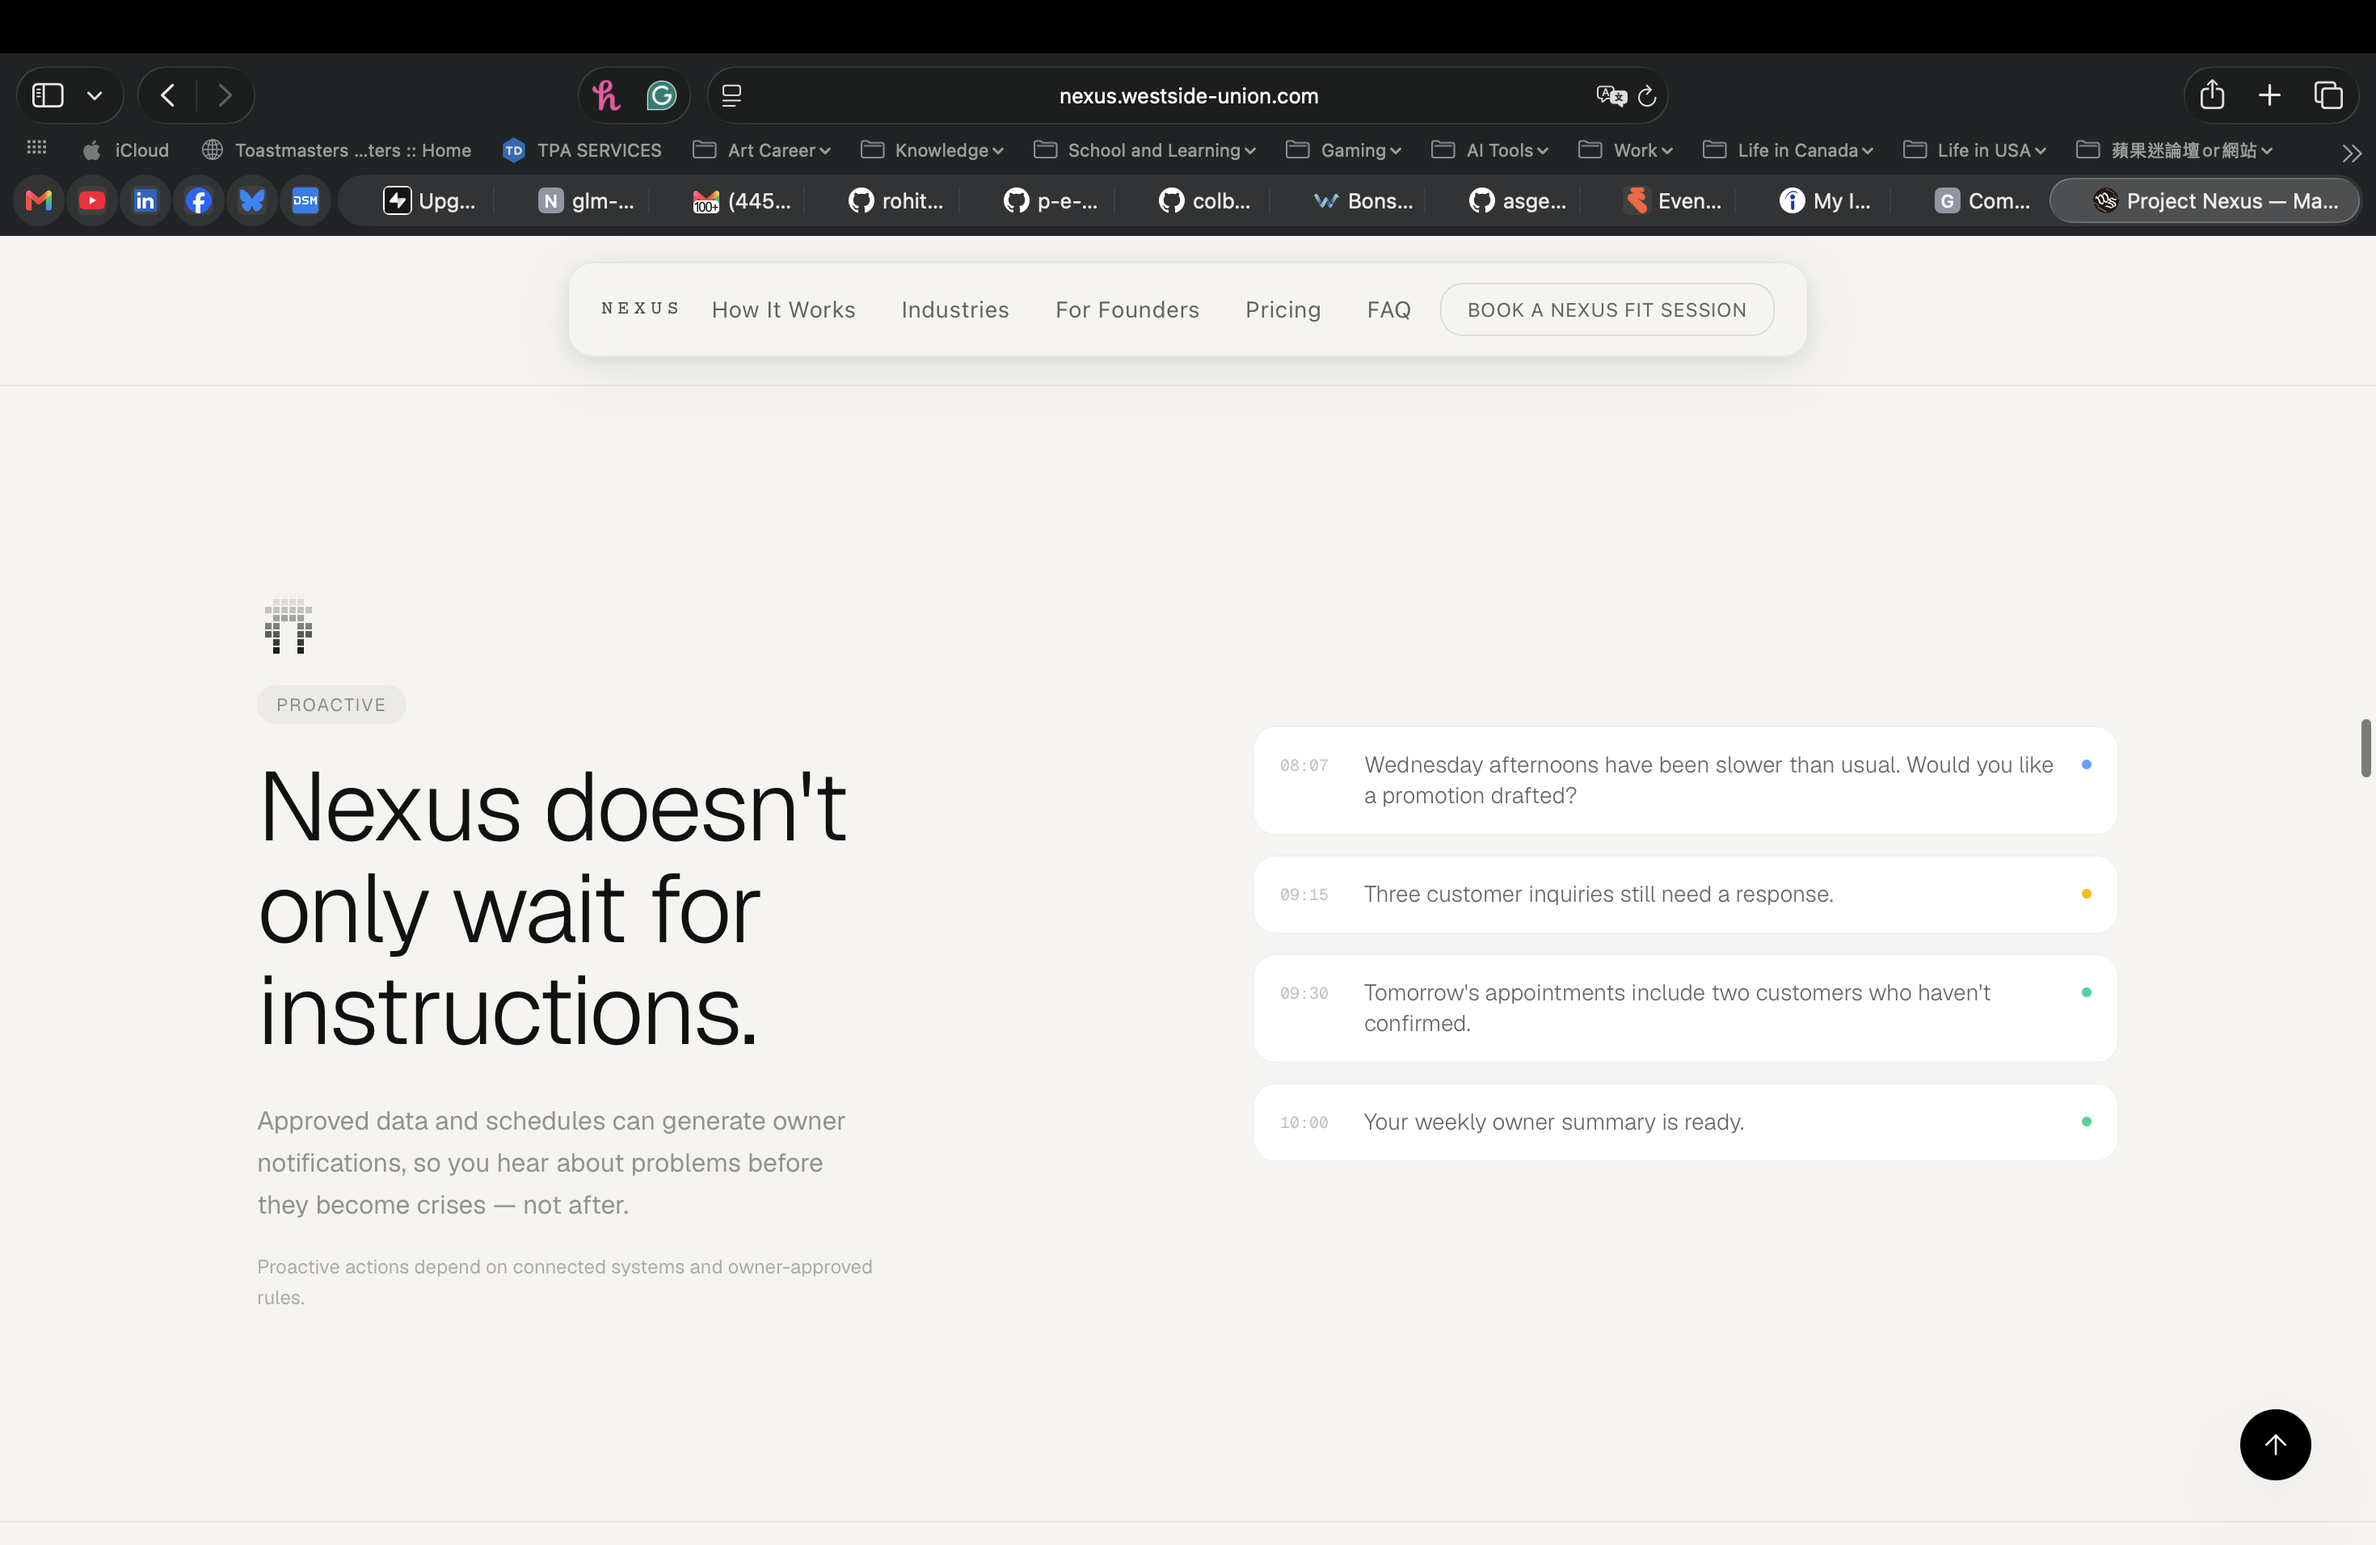
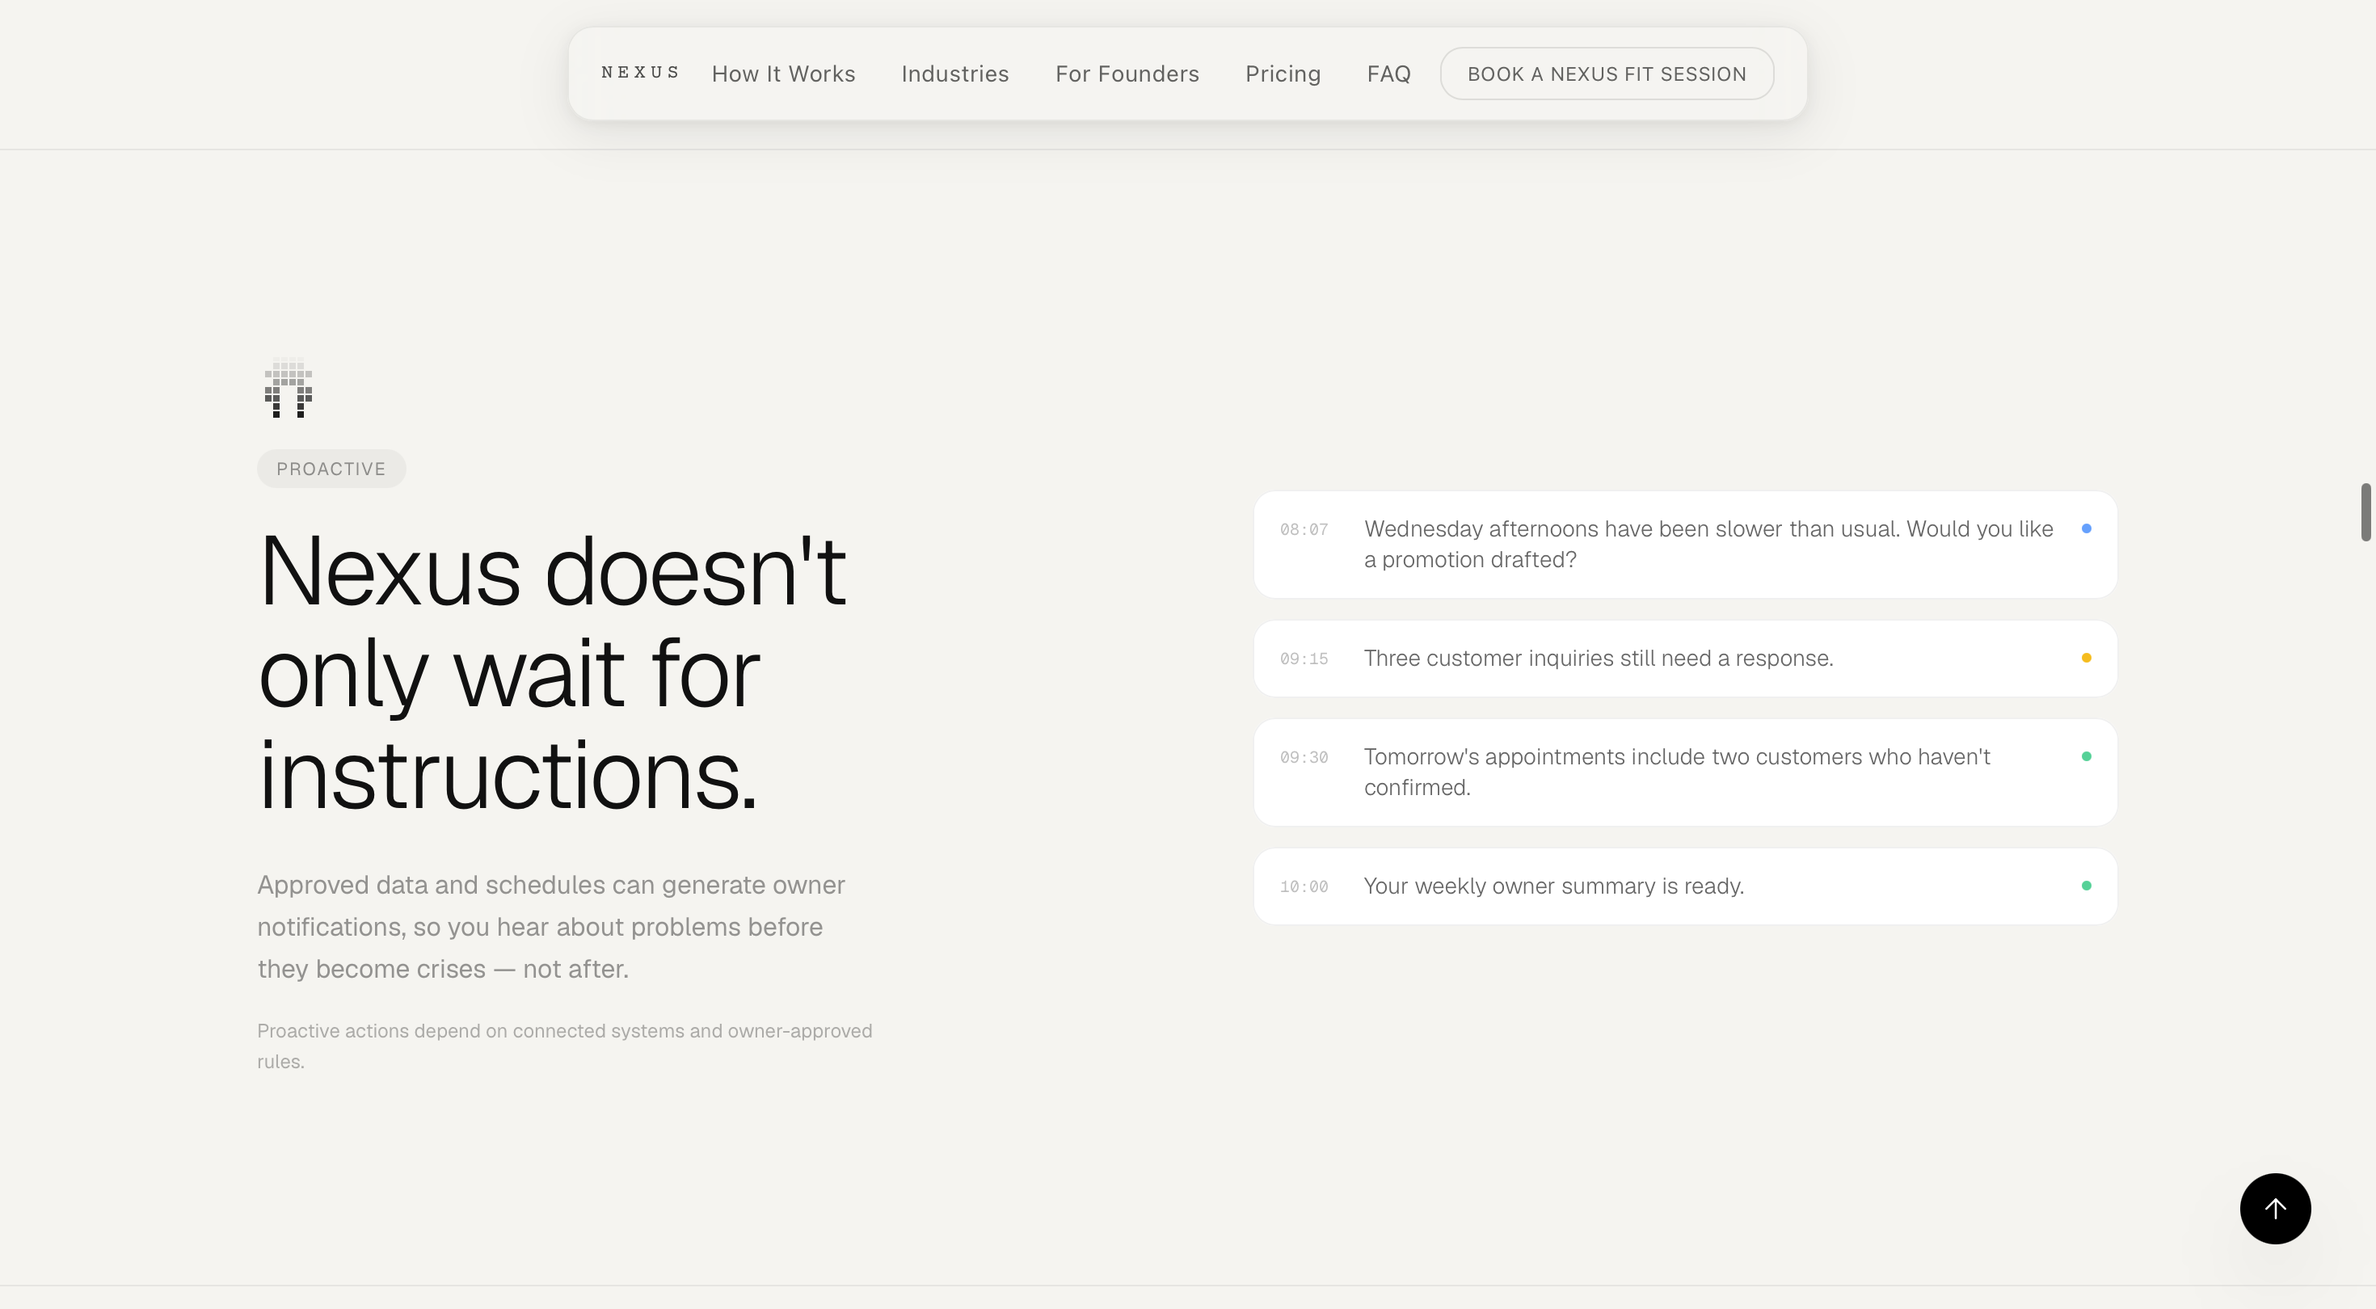
fix: update Project Nexus image dimensions and adjust media display to contain for accurate aspect ratio rendering

diff --git a/content/case-studies/project-nexus.tsx b/content/case-studies/project-nexus.tsx
@@ -101,8 +101,8 @@ export function ProjectNexusCaseStudy() {
       <MediaFigure
         src="/images/projects/nexus_ai/nexus_cover.png"
         alt="Project Nexus live marketing site hero interface: editorial headline 'Your business runs, even when you sleep.' on an off-white background with iridescent geometric forms"
-        width={1440}
-        height={900}
+        width={2940}
+        height={1621}
         layout="full"
         caption="The live Project Nexus marketing experience. Product positioning leads with business outcomes and daily reality rather than technical abstractions."
         disclosure="Live public marketing interface, captured in 2026. Designed by Jacky Ho / Westside Union."
@@ -268,8 +268,8 @@ export function ProjectNexusCaseStudy() {
       <MediaFigure
         src="/images/projects/nexus_ai/nexus-how-it-works.png"
         alt="How It Works section of the live Project Nexus marketing site illustrating the three-step managed onboarding journey"
-        width={1440}
-        height={900}
+        width={2940}
+        height={1620}
         layout="full"
         caption="Public Landing Page: The 3-step managed onboarding narrative communicating clear outcomes and transparent partnership."
         disclosure="Live public marketing interface, captured in 2026."
@@ -430,8 +430,8 @@ export function ProjectNexusCaseStudy() {
       <MediaFigure
         src="/images/projects/nexus_ai/nexus-trust-section.png"
         alt="Trust and governance section of the Project Nexus website detailing data ownership, human approvals, and predictable monthly costs"
-        width={1440}
-        height={900}
+        width={2940}
+        height={1623}
         layout="full"
         caption="Trust & Governance Section: Transparent commitments explaining data ownership, approval boundaries, and managed maintenance."
         disclosure="Live public marketing interface, captured in 2026."

diff --git a/components/case-study/case-study-hero.tsx b/components/case-study/case-study-hero.tsx
@@ -98,7 +98,7 @@ export function CaseStudyHero({ project }: CaseStudyHeroProps) {
           style={{
             position: "relative",
             width: "100%",
-            aspectRatio: "16 / 9",
+            aspectRatio: `${project.heroImage.width} / ${project.heroImage.height}`,
             borderRadius: "var(--radius-lg)",
             overflow: "hidden",
             backgroundColor: "var(--color-canvas)",
@@ -110,7 +110,7 @@ export function CaseStudyHero({ project }: CaseStudyHeroProps) {
             alt={project.heroImage.alt}
             fill
             sizes="100vw"
-            style={{ objectFit: "cover" }}
+            style={{ objectFit: "contain" }}
             priority // Hero image is prioritized for LCP
           />
         </div>

diff --git a/content/projects.ts b/content/projects.ts
@@ -221,8 +221,8 @@ export const projects: Project[] = [
     heroImage: {
       src: "/images/projects/nexus_ai/nexus_cover.png",
       alt: "Project Nexus marketing site hero: large editorial headline 'Your business runs, even when you sleep.' on an off-white background with iridescent geometric forms",
-      width: 1440,
-      height: 900,
+      width: 2940,
+      height: 1621,
       provenance: "original",
       disclosure: "Live public marketing interface, captured in 2026.",
     },

diff --git a/components/case-study/media-figure.tsx b/components/case-study/media-figure.tsx
@@ -59,7 +59,7 @@ export function MediaFigure({
               ? "(max-width: 1200px) 100vw, 1200px"
               : "100vw"
           }
-          style={{ objectFit: "cover" }}
+          style={{ objectFit: "contain" }}
           priority={priority}
         />
       </div>

diff --git a/app/globals.css b/app/globals.css
@@ -86,7 +86,7 @@
 
 html {
   -webkit-text-size-adjust: 100%;
-  text-size-adjust: 100%;
+  -moz-text-size-adjust: 100%;
   scroll-behavior: smooth;
 }
 
